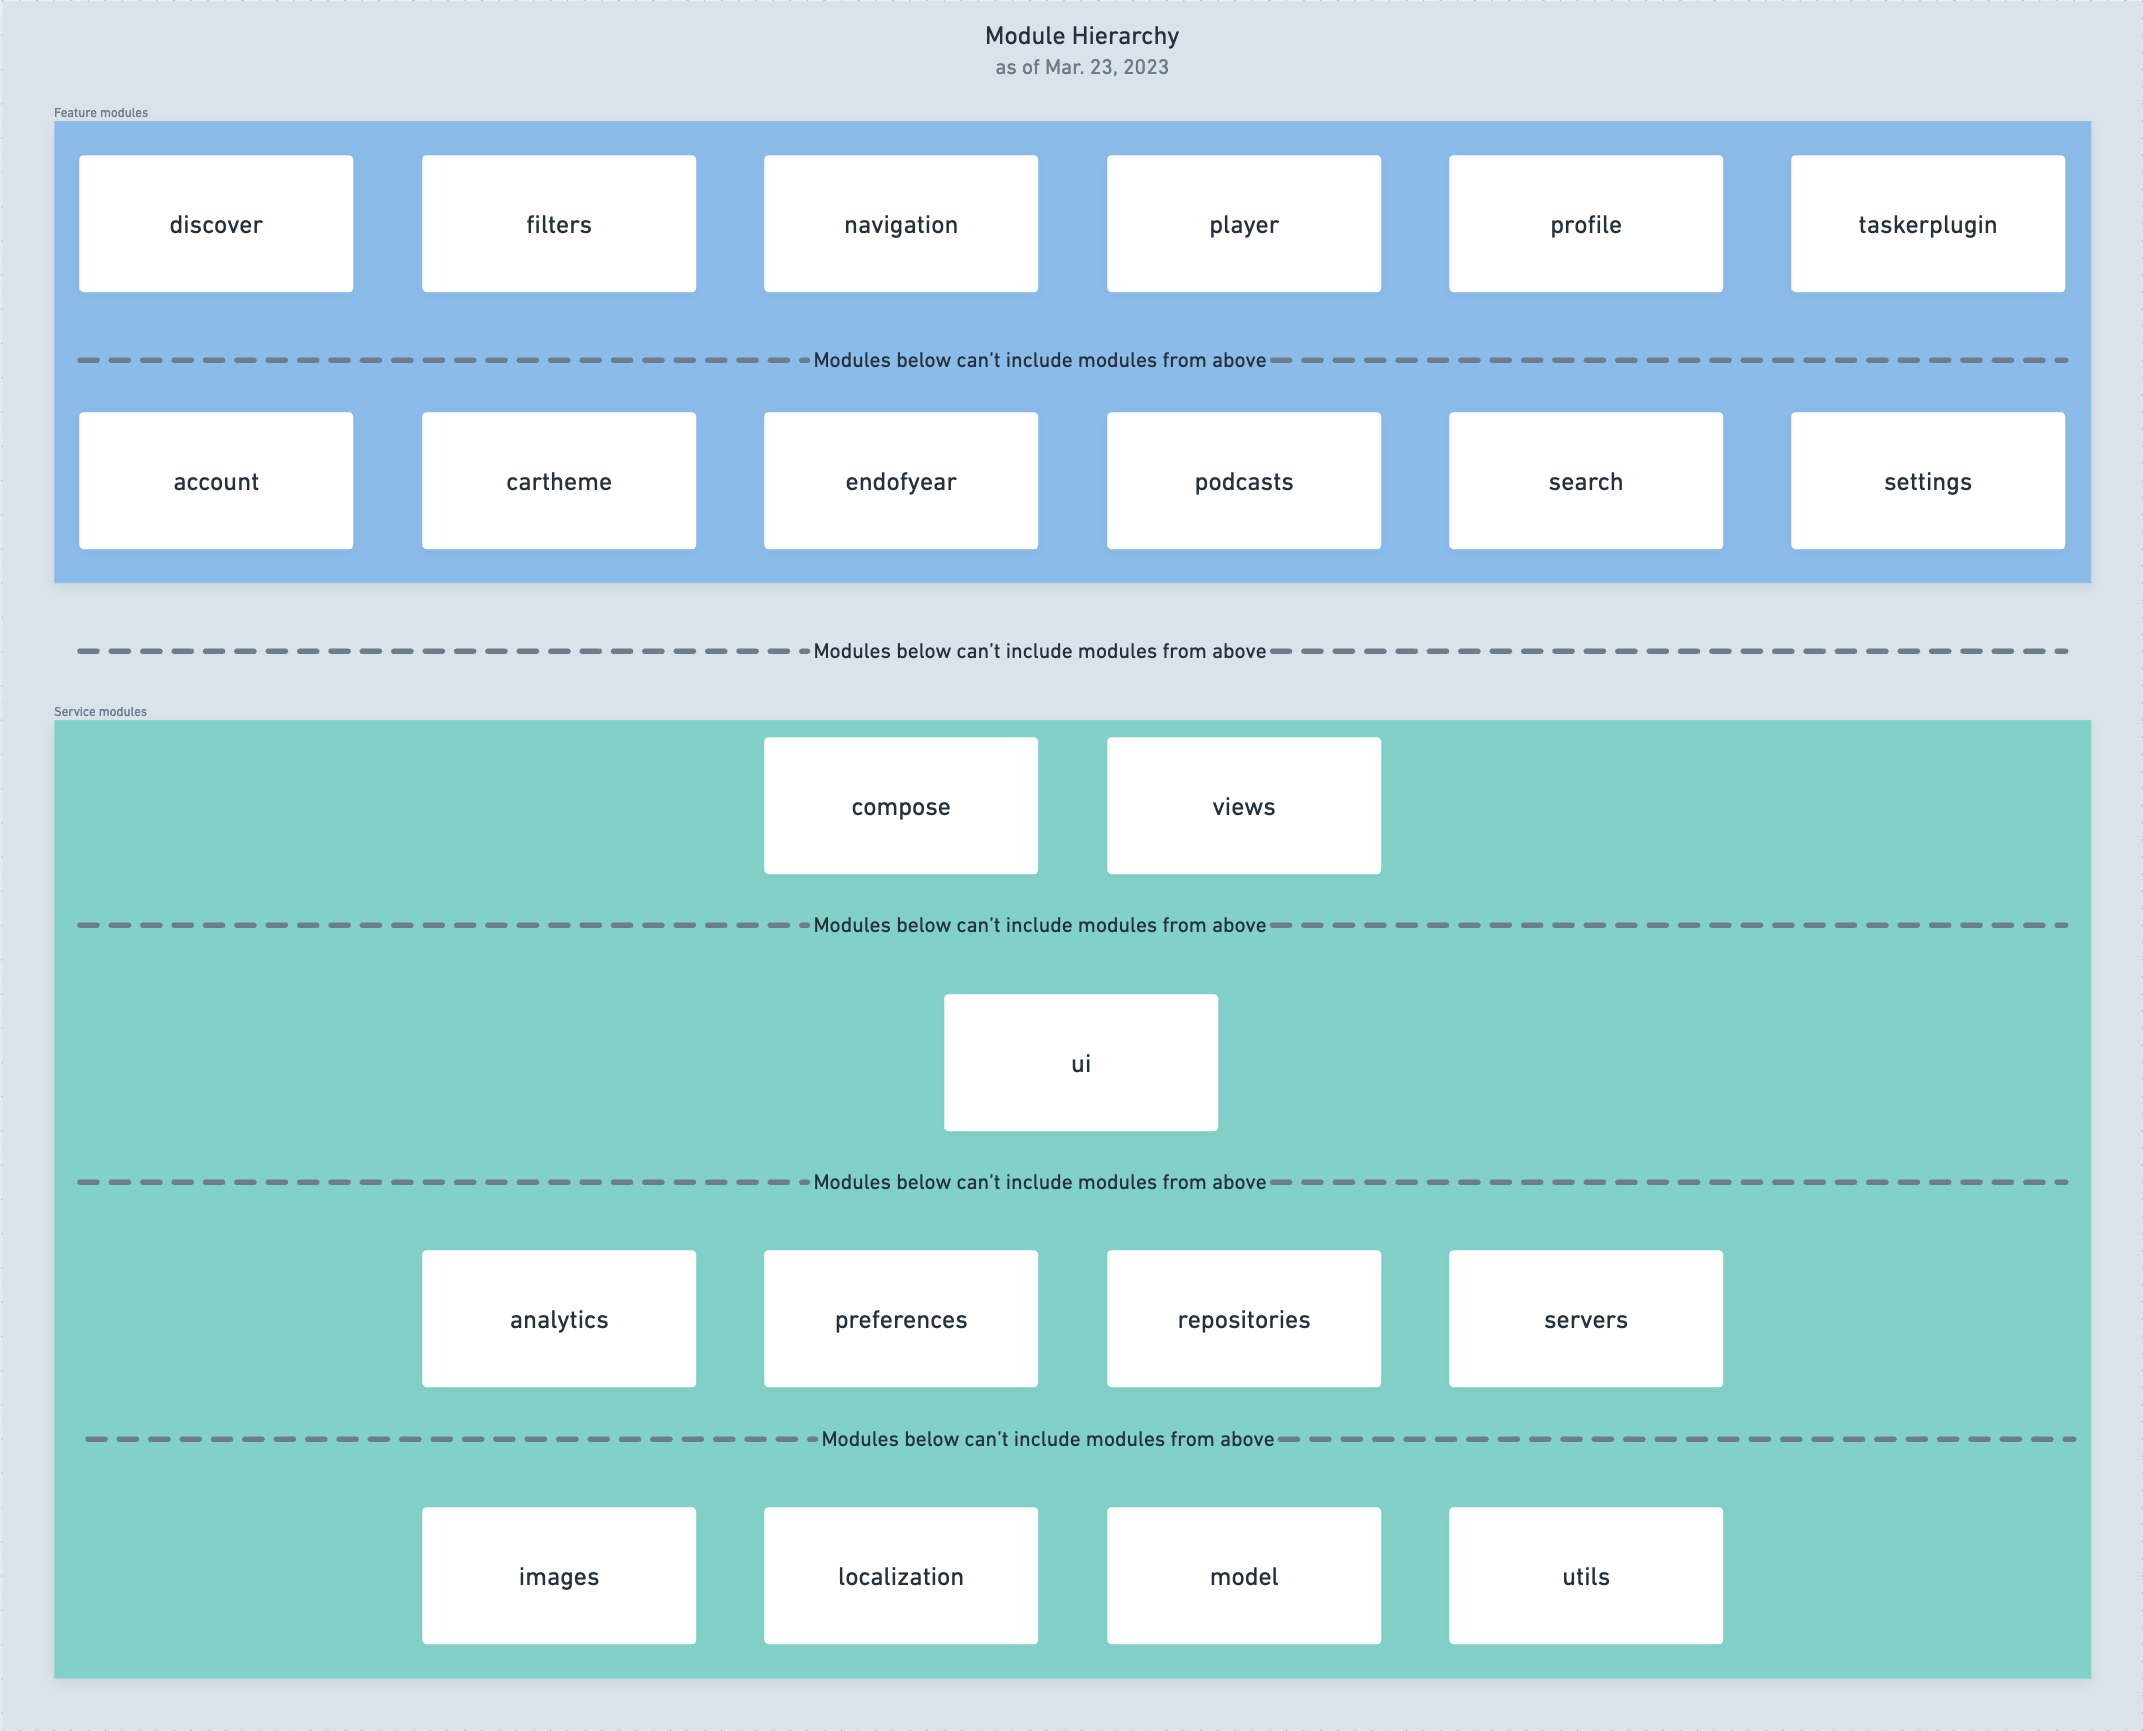
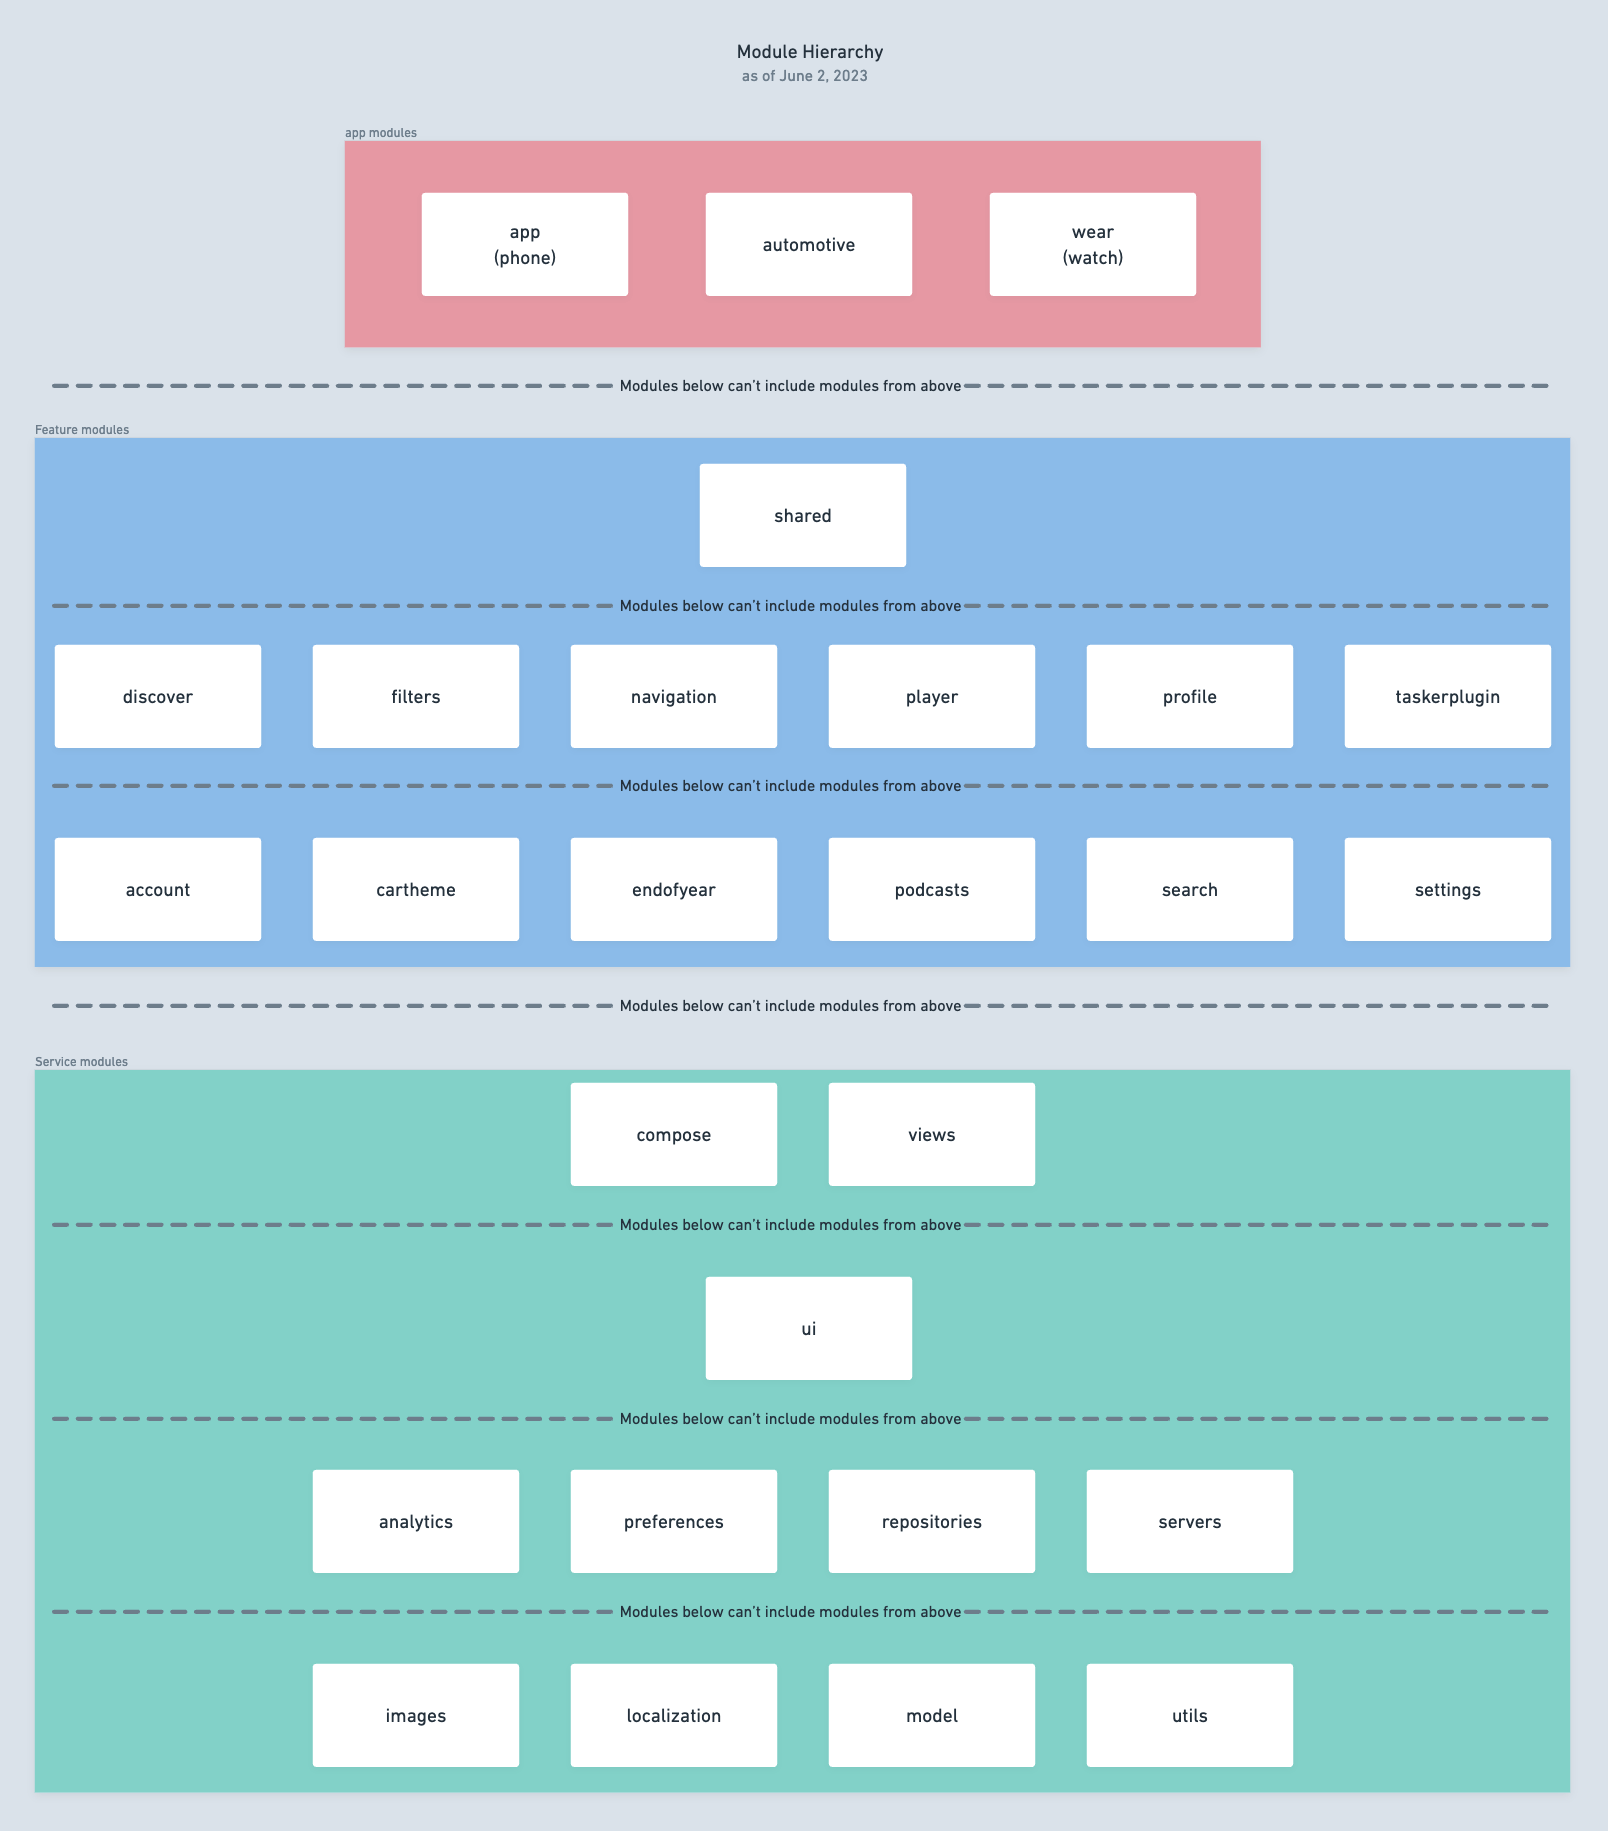
Add shared module for code shared between the applications

diff --git a/modules/features/shared/README.md b/modules/features/shared/README.md
@@ -1,0 +1,1 @@
+This module is for code that is shared between the app, automotive, and wear applications.
